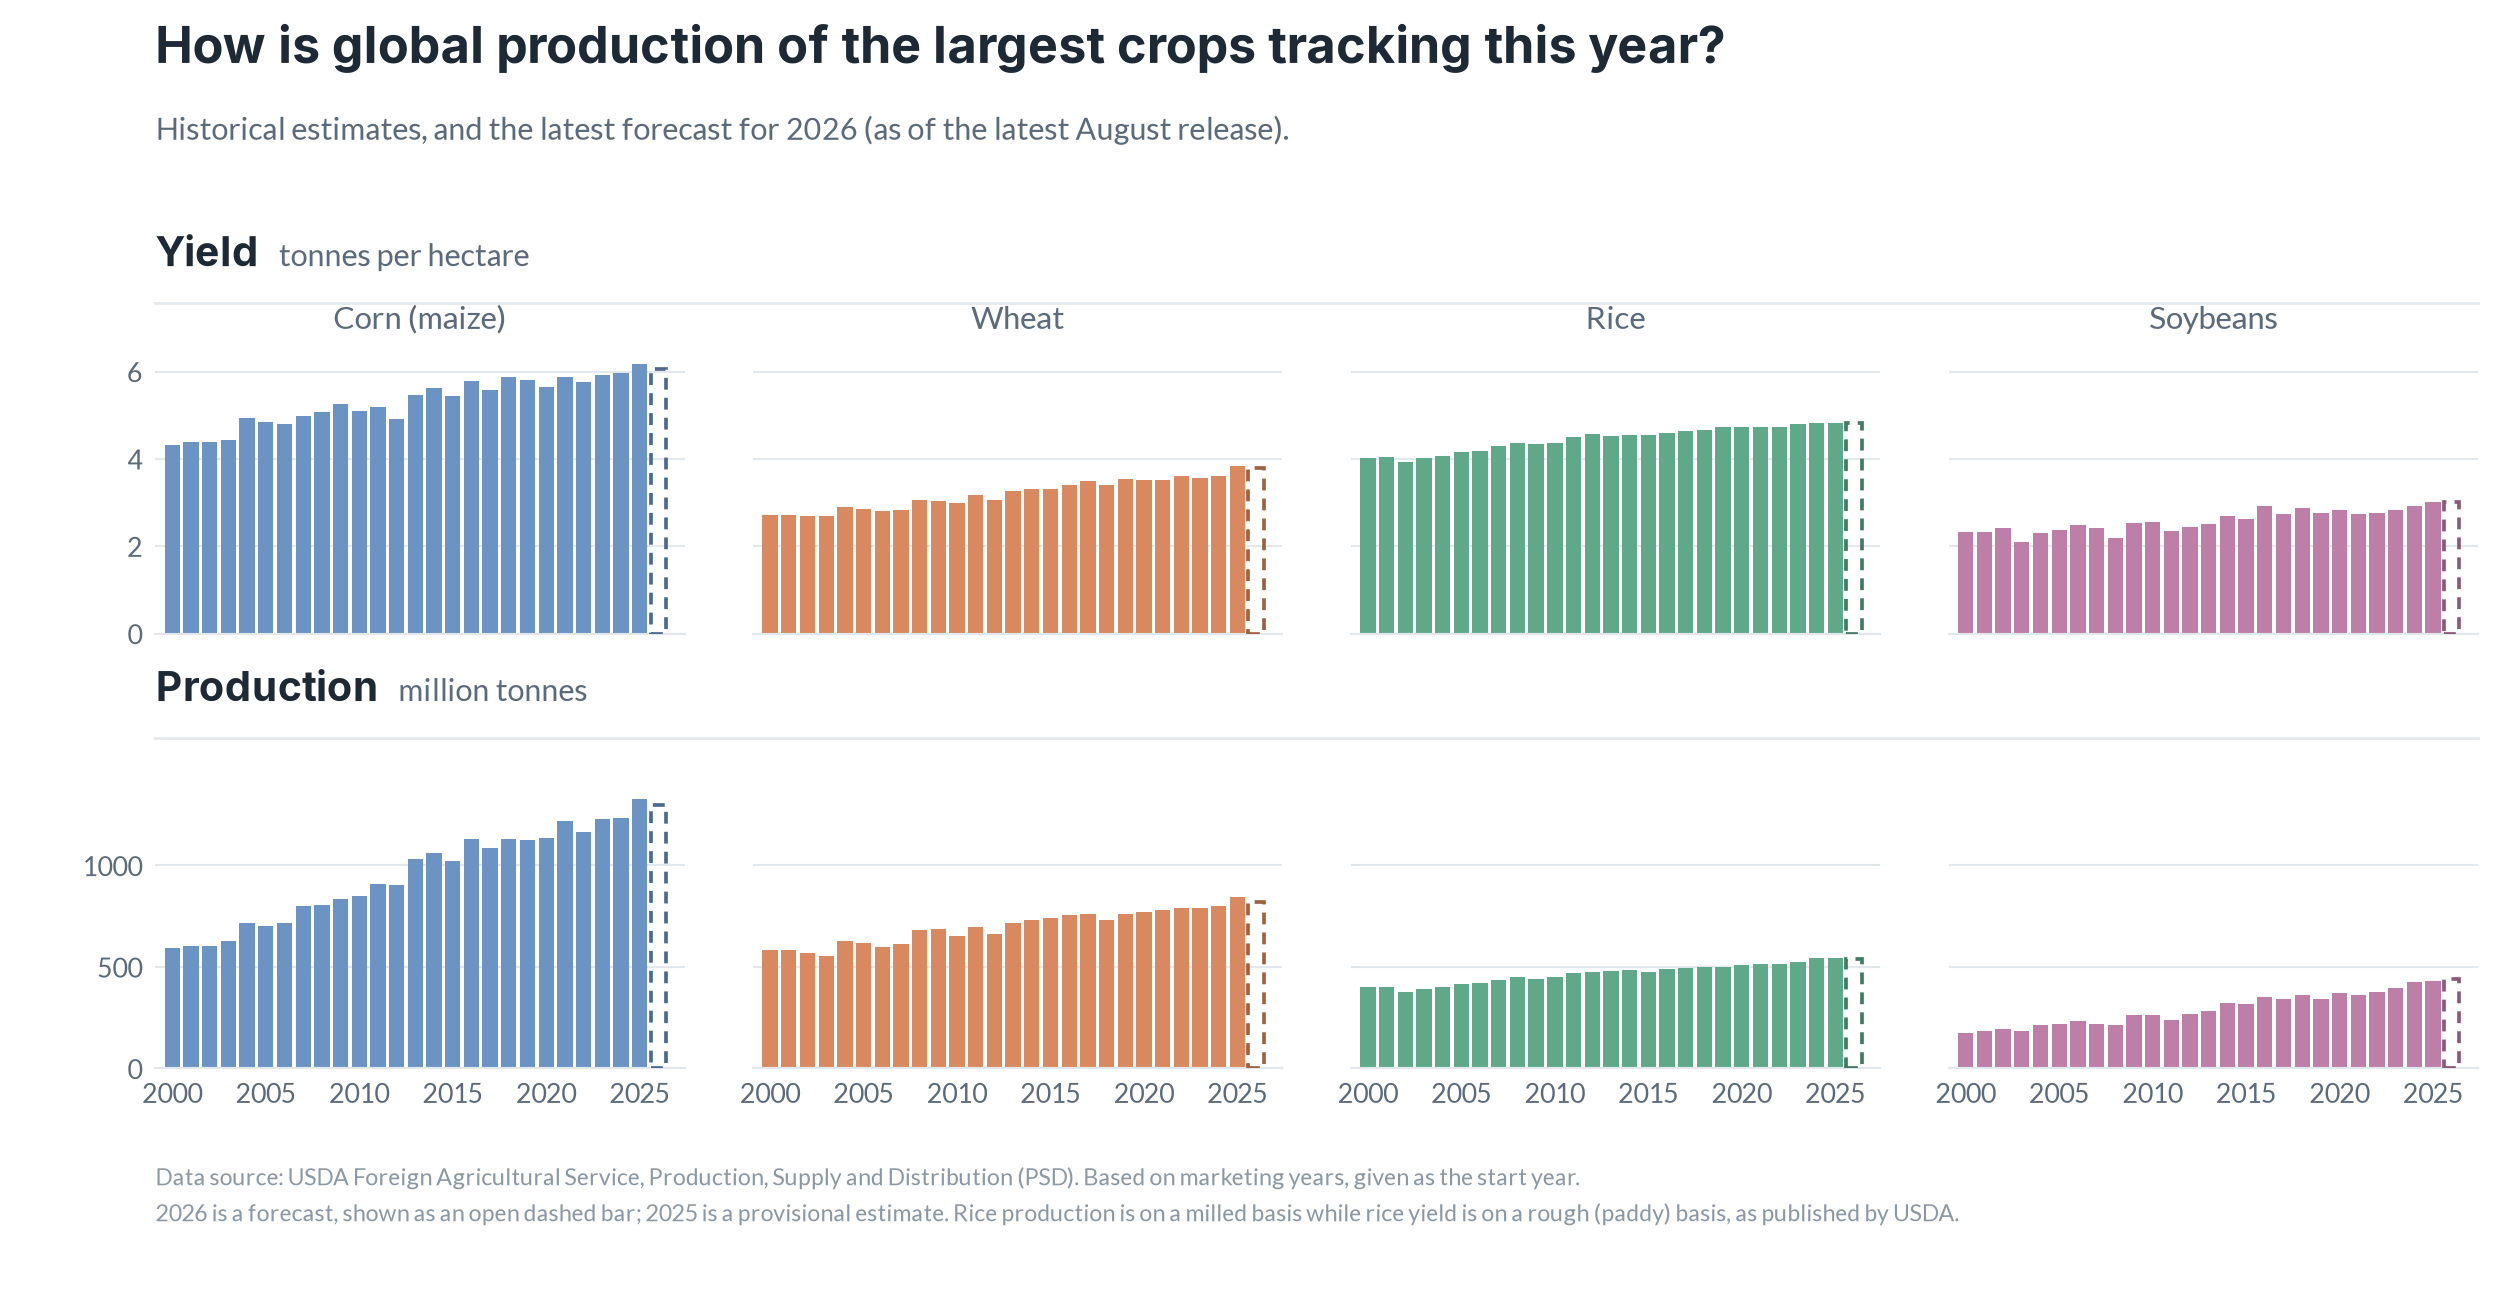
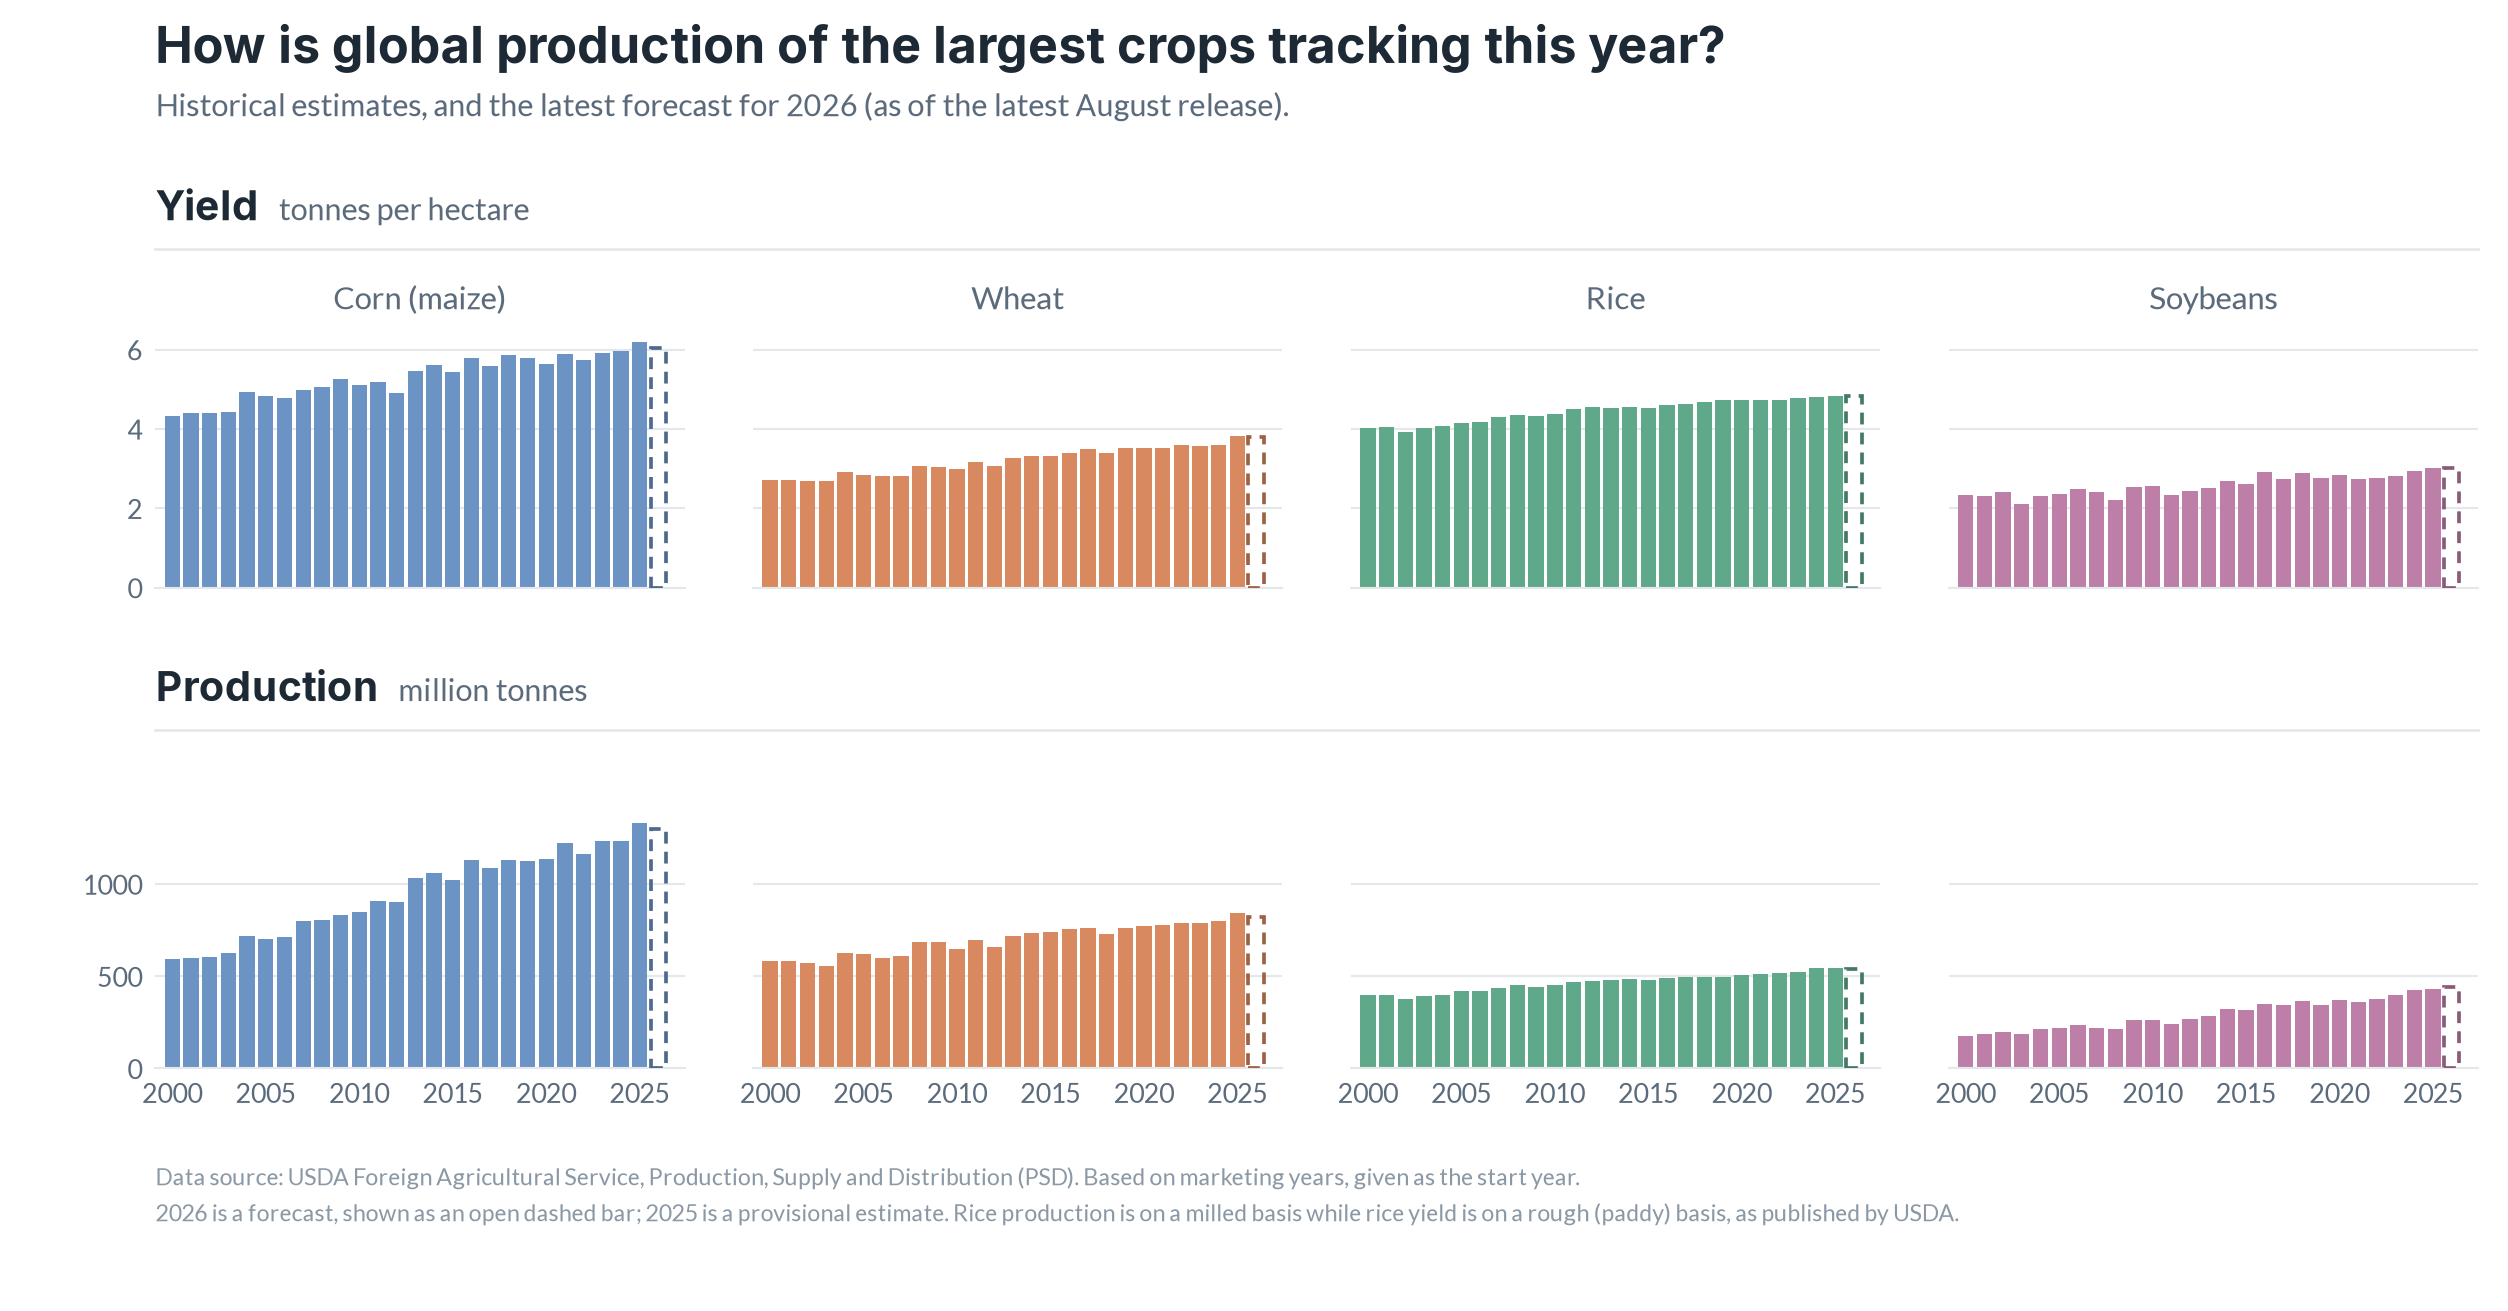
Fix crop names colliding with the row rule; tighten the subtitle
The banding rule sat at the same height as the crop names. It now sits directly
under the row header, with the names in clear air above each panel. Widening the
row gap keeps the second row's header off the first row's baseline, which the
first fix would otherwise have caused.

Title-to-subtitle gap cut from 45px to 20px.

diff --git a/scripts/make_static_chart.py b/scripts/make_static_chart.py
@@ -170,8 +170,8 @@ def main() -> None:
 
     fig, axes = plt.subplots(
         2, 4, figsize=(13.2, 6.9), dpi=190,
-        gridspec_kw={"hspace": 0.52, "wspace": 0.13,
-                     "left": 0.062, "right": 0.988, "top": 0.735, "bottom": 0.185})
+        gridspec_kw={"hspace": 0.85, "wspace": 0.13,
+                     "left": 0.062, "right": 0.988, "top": 0.750, "bottom": 0.185})
 
     rows = [
         ("yield", "Yield", "tonnes per hectare"),
@@ -245,7 +245,7 @@ def main() -> None:
              "How is global production of the largest crops tracking this year?",
              fontsize=19, fontweight="bold", color=TEXT, ha="left",
              fontfamily=display)
-    fig.text(0.062, 0.918,
+    fig.text(0.062, 0.936,
              f"Historical estimates, and the latest forecast for {proj} "
              f"(as of the latest August release).",
              fontsize=11.5, color=MUTED, ha="left", va="top", linespacing=1.5)
@@ -267,14 +267,16 @@ def main() -> None:
     fig_w = fig.get_size_inches()[0] * fig.dpi
     for r, (_metric, row_label, unit) in enumerate(rows):
         box = axes[r][0].get_position()
-        y = box.y1 + 0.062
+        y = box.y1 + 0.082
         lead = fig.text(0.062, y, row_label, fontsize=15.5, fontweight="bold",
                         color=TEXT, ha="left", va="baseline", fontfamily=display)
         x_unit = lead.get_window_extent(renderer).x1 / fig_w + 0.008
         fig.text(x_unit, y, unit, fontsize=11.5, color=MUTED,
                  ha="left", va="baseline")
+        # Rule sits directly under the row header, above the crop names.
+        rule_y = y - 0.022
         fig.add_artist(plt.Line2D(
-            [0.062, 0.988], [y - 0.028, y - 0.028], transform=fig.transFigure,
+            [0.062, 0.988], [rule_y, rule_y], transform=fig.transFigure,
             color=GRID, linewidth=1.0, zorder=0))
 
     suffix = ("" if kind == "line" else "-column") + \
